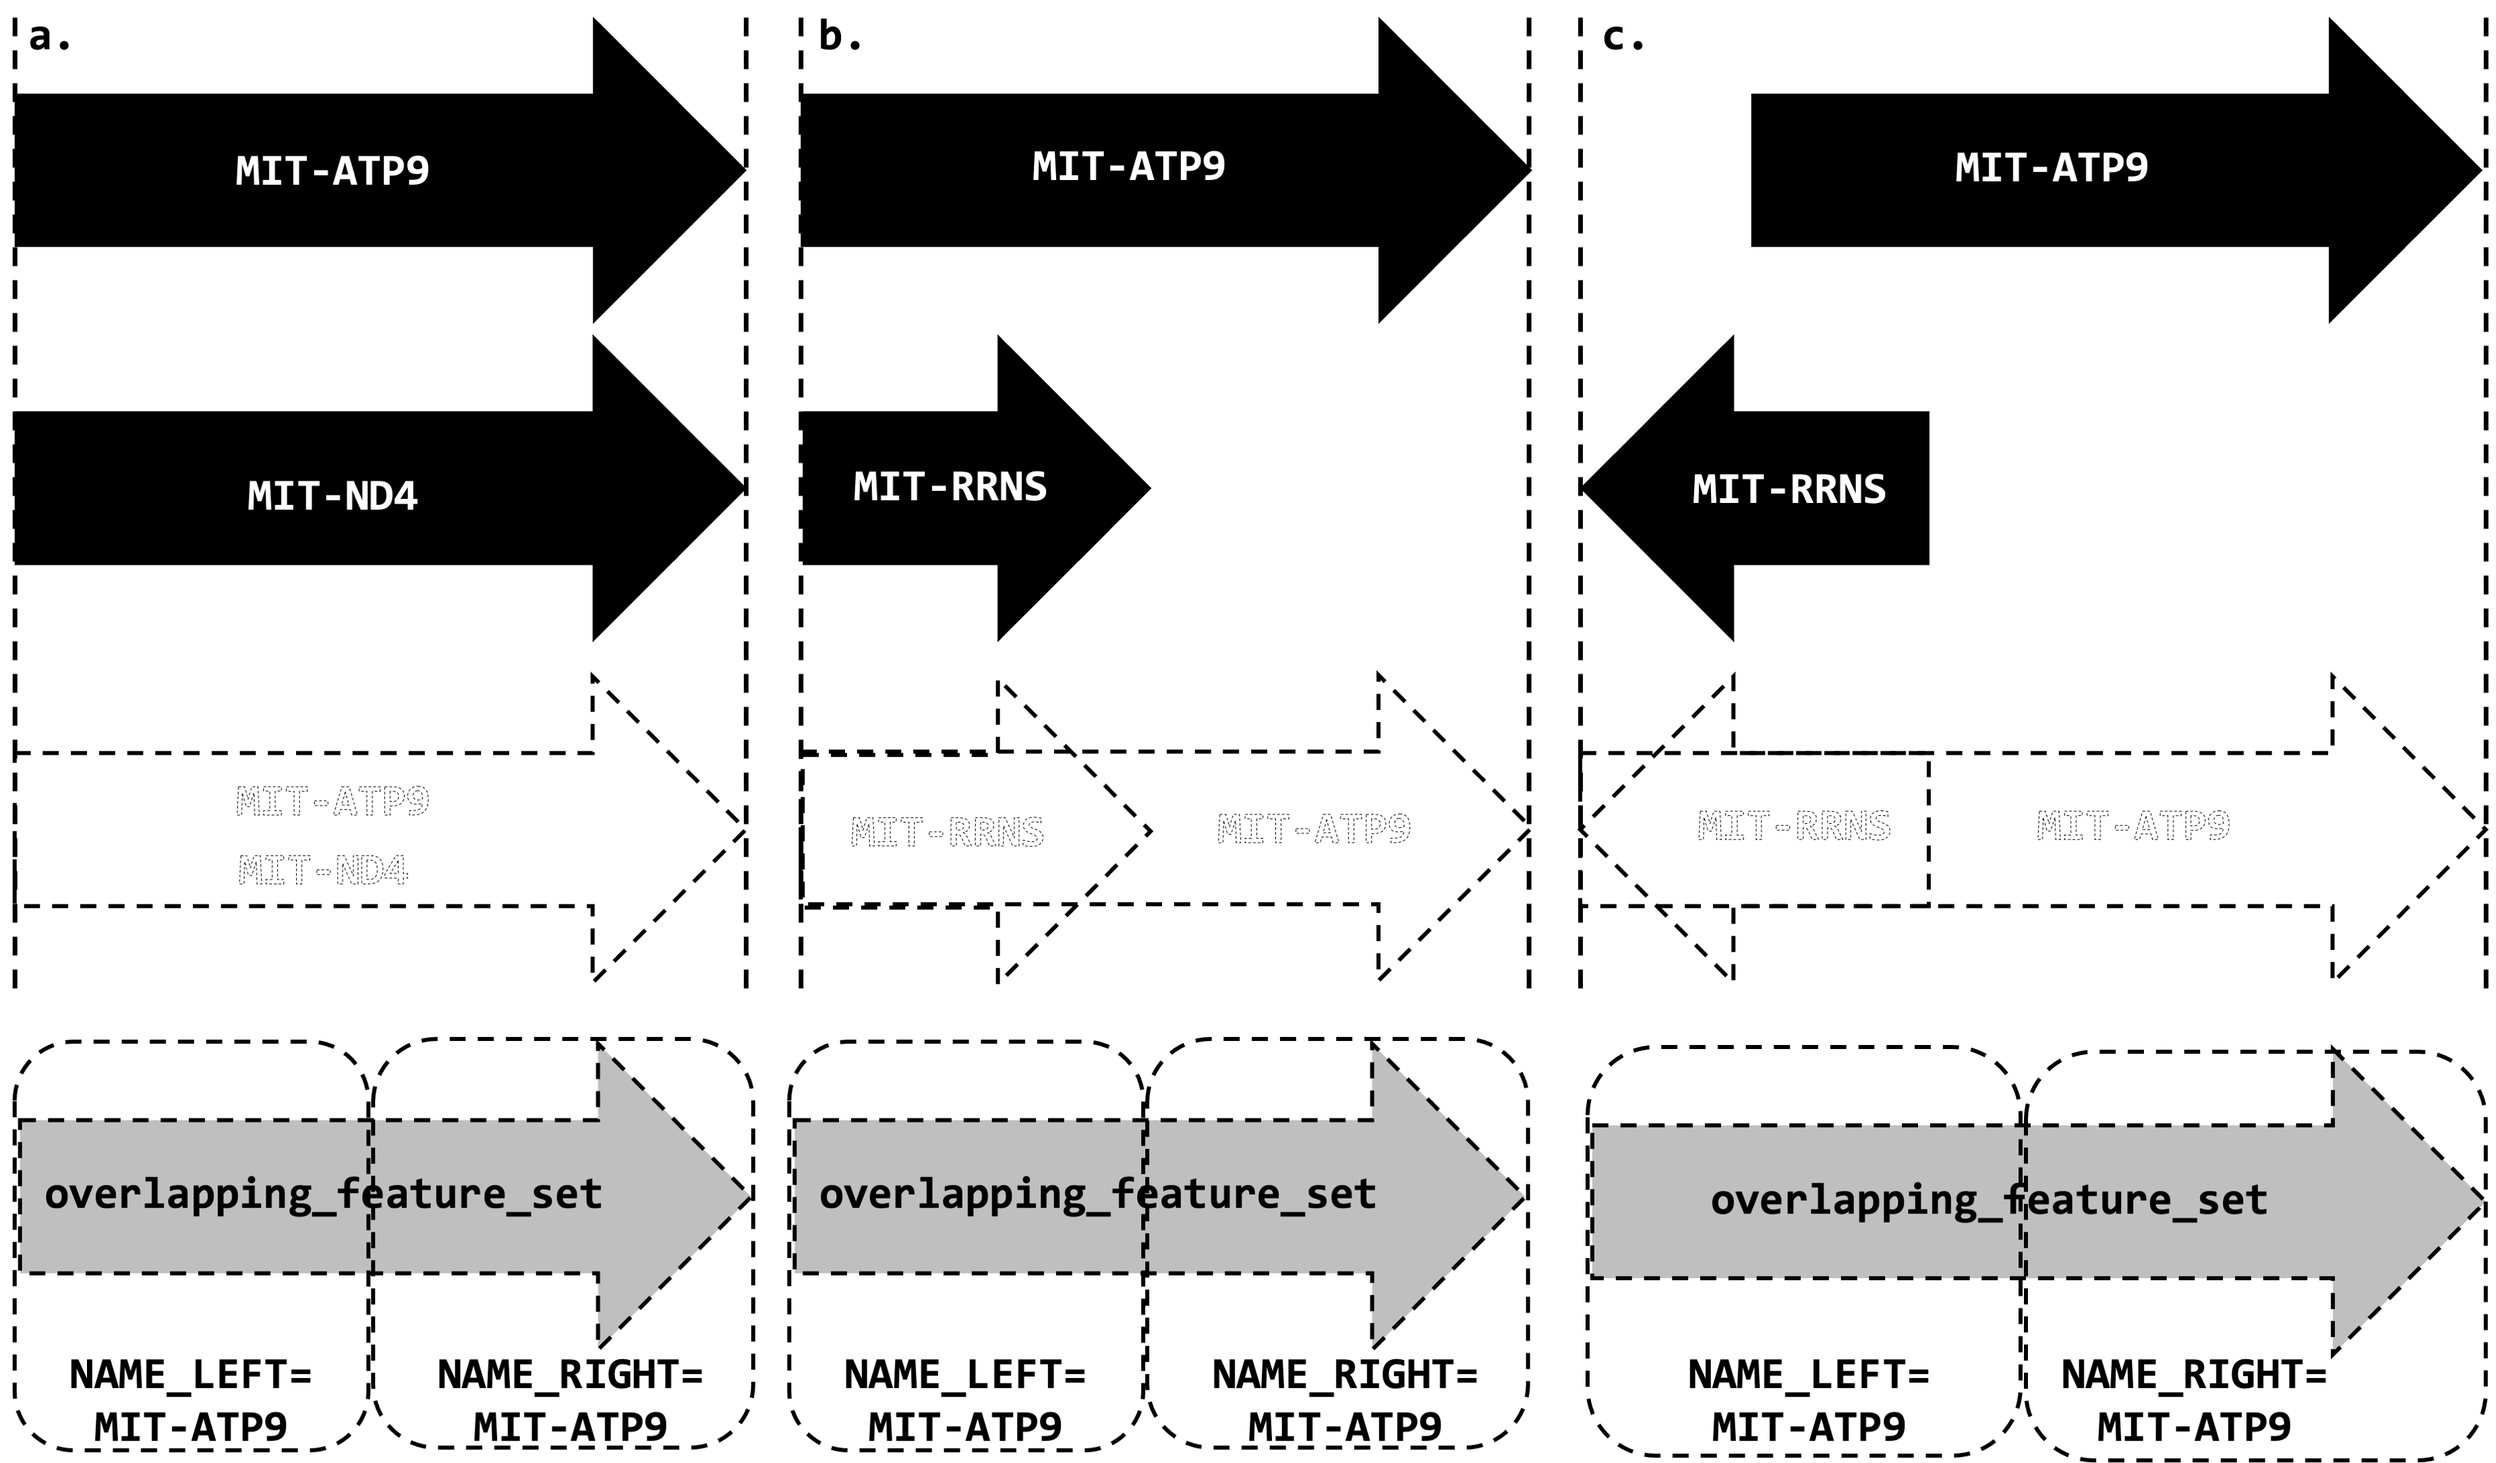
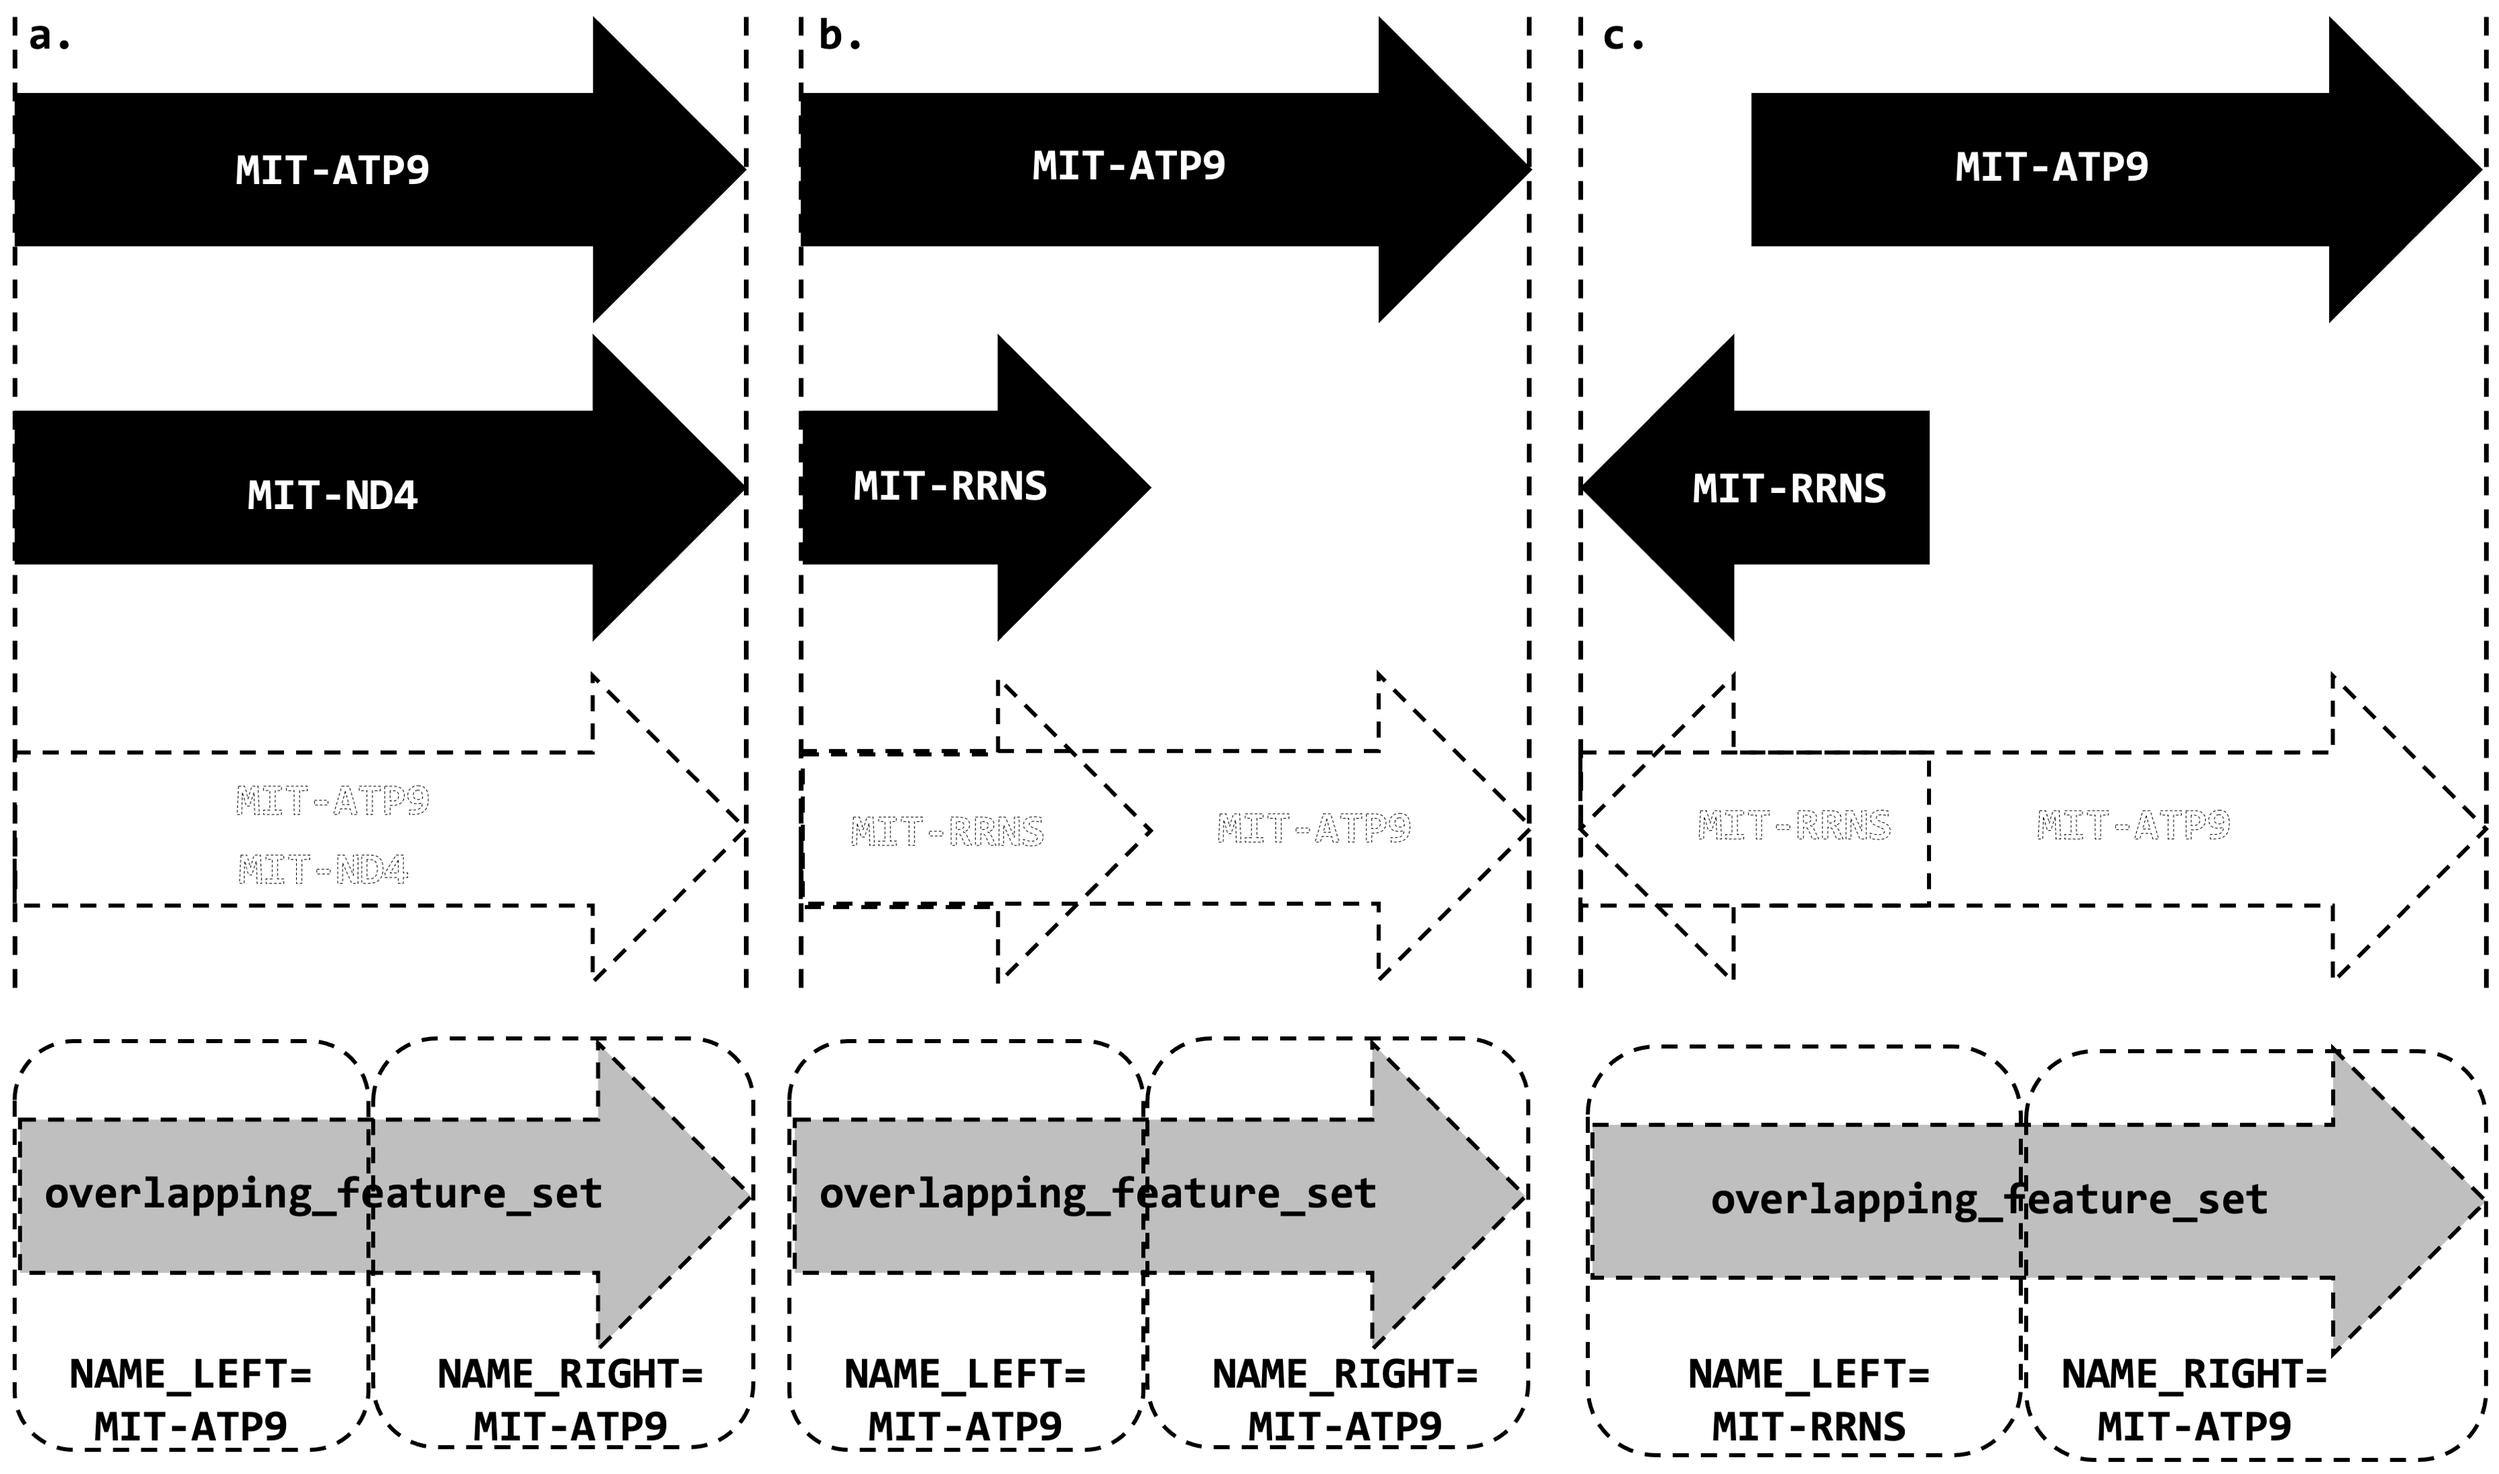
second draft

diff --git a/PROCESSING.md b/PROCESSING.md
@@ -45,3 +45,74 @@ There are a few possible scenarios for overlapping features, described in the im
   <img src="img/overlap.png" />
 </div>
 
+Figure: Overlapping feature scenarios handled by `tigre clean`.
+The figure illustrates three hypothetical overlapping feature scenarios and how they are resolved into overlapping_feature_set annotations:
+
+ - a. This scenario shows a case where two features (MIT-ATP9 and MIT-ND4) have the exact same start and end coordinates, meaning they completely overlap. 
+ As `tigre` does not correct annotations, the algorithm arbitrarily picks the first feature listed in the GFF3 for the boundary information. The resulting `overlapping_feature_set` will coincide with the chosen feature.
+
+ - b. Overlap between a larger feature (MIT-ATP9) and smaller feature (MIT-RRNS) that have the same start coordinate. The resolution for the left boundary falls in the tie break rule: in this case MIT-ATP9 the chosen as the left boundary feature. For the right side, MIT-ATP9 is also the chosen feature because it is the only feature that ends at the right boundary of the overlap region.
+
+ - c. Regular overlap between MIT-RRNS and MIT-ATP9. The merged region becomes an `overlapping_feature_set` with boundary features determined by the selection rules (lowest start coordinate for left boundary, highest end coordinate for right boundary). Note that the strand of the `overlapping_feature_set` is always set to `+`, regardless of the strands of the original features.
+
+
+# `tigre extract`
+
+`tigre extract` is the command that extracts intergenic regions from the GFF3 file, using the annotations processed by `tigre clean`.
+
+> [!NOTE]
+> We always refer an interving region as "intergenic region", but the user can customize the feature type used to represent these regions in the output by providing a value for the flag `--feature-type` (default as `intergenic_region`).
+
+`tigre extract` expects GFF3 files containing fully independent features, meaning that overlapping and boundary-spanning features have been resolved. All features are sorted by their start coordinate and their attributes are standardized using the format `name=value;source=value;` (for `overlapping_feature_set`, we expect `name_left=value;source_left=value;name_right=value;source_right=value;`).
+
+## Identifying intergenic regions
+The core algorithm identifies intervals between consecutive features and creates intergenic region annotations for these intervals. Each intergenic region is defined as the sequence between the end of one feature and the start of the next feature. Therefore their start coordinate is one position after the end of the upstream (left) feature, and their end coordinate is one position before the start of the downstream (right) feature.
+
+Each intergenic region captures information about its flanking features in its attributes:
+- `name_up` and `source_up`: Identifying information from the upstream flanking feature.
+- `name_dw` and `source_dw`: Identifying information from the downstream flanking feature.
+
+## Genome boundary handling
+`tigre extract` handles genome boundary with special logic to ensure that intergenic regions, and their corresponding flanking features, at the start and end of the genome are correctly identified, especially for circular genomes.
+
+### Start boundary regions
+If the first feature in the genome does not start at coordinate 1, an intergenic region is created from position 1 up to the start of the first feature. For this boundary region:
+
+ - `name_up` and `source_up` are derived from the last feature if the genome is circular, or set as `region_start` if linear.
+ - `name_dw` and `source_dw` are derived from the first feature.
+
+### End boundary regions
+If the last feature does not end at the genome's final coordinate, an intergenic region is created from the end of the last feature to the genome end. For this boundary region:
+
+ - `name_up` and `source_up` are derived from the last feature.
+ - `name_dw` and `source_dw` are derived from first feature if the genome is circular, or set as `region_end` if linear.
+
+### Circular genome boundary merging
+For circular genomes (identified by the presence of `is_circular=true` in the attributes for the region feature), `tigre extract` performs an additional check for boundary merging.
+If both a start boundary region and an end boundary region were to be created (meaning the first feature starts after coordinate 1 AND the last feature ends before the genome end), single intergenic region that spans across the genome boundary is created.
+
+This boundary region:
+ - Spans from the end of the last feature, wraps around the genome boundary, and continues to the start of the first feature.
+ - Has its feature type appended with `_merged` to indicate it crosses the genome boundary.
+ - Uses `name_up`/`source_up` from the last feature and `name_dw`/`source_dw` from the first feature.
+
+The merging logic recognizes that in circular genomes, the space at the end of the genome and the space at the start of the genome actually form a single continuous intergenic region.
+
+
+<div align="center">
+  <img src="img/extract.png" />
+</div>
+
+Figure: Intergenic region extraction scenarios in circular genomes using `tigre extract`.
+A simplified (circular-mapping) mitochondrial genome is shown on the left. The inset depicts the genome boundary delimited by MIT-ATP6 and MIT-RPL16 in different configurations. The linear representations (a-d) illustrate different extraction scenarios:
+ - a. Boundary merging scenario: When both start and end boundary regions would be created (first gene starts after coordinate 1 AND last gene ends before genome end), a single merged intergenic region is created that spans across the genome boundary. The region is annotated as intergenic_region_merged with `name_up`/`source_up` from the last feature (ATP6) and `name_dw`/`source_dw` from the first feature (RPL16).
+ - b. End boundary region: Intergenic region created from the last gene to the genome end, when the last gene does not end right at the genome end. For circular genomes, `name_dw`/`source_dw` is derived from the first feature (RPL16).
+ - c. Start boundary region: Intergenic region created from position 1 to the start of the first feature, when the first gene does not start at coordinate 1. For circular genomes, `name_up`/`source_up` is derived from the last feature (ATP6).
+ - d. Boundary-spanning feature handling: Shows how features that cross the genome boundary are split into fragments in `tigre clean` (with `_fragment` appended to their type). In this case the nth intergenic region's `name_dw`/`source_dw` and the first intergenic region's `name_up`/`source_up` are derived from the fragments (and therefore the original annotation) of MIT-ATP6.
+
+## Output structure
+Each extracted intergenic region follows standard GFF3 format with:
+
+ - Feature type: `intergenic_region` as default (customizable), or `intergenic_region_merged` for boundary-spanning regions in circular genomes.
+ - Strand: Always `+` since intergenic regions are not strand-specific. The strandedness of the flanking features is stored in the attributes of the corresponding intergenic region (in the fields `source_up` and `source_dw`).
+ - Attributes: Include upstream and downstream feature information as described above, plus a unique ID in the format `{seqid}_{feature_type}_{counter}`.
